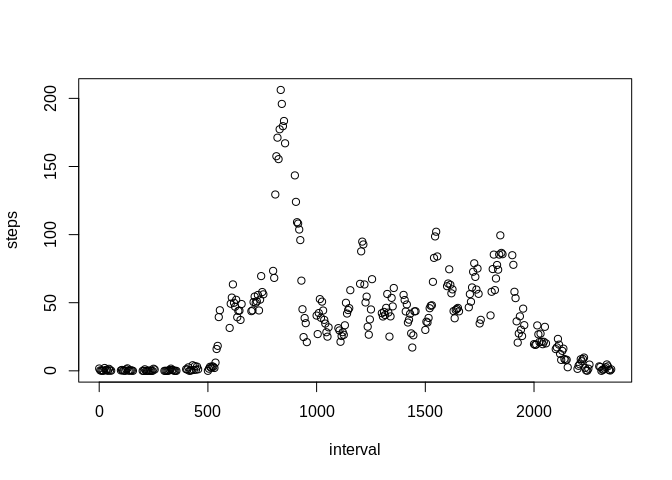
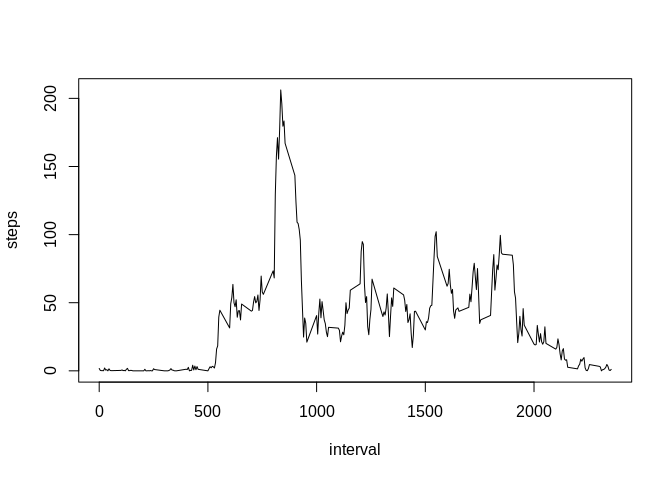
l type graphic

Changed region(s): [[0.4375, 0.4688, 0.9375, 0.7812], [0.125, 0.5625, 0.4688, 0.7812], [0.4062, 0.1875, 0.4688, 0.5312]]

diff --git a/PA1_template.html b/PA1_template.html
@@ -160,8 +160,8 @@ abline(v=mediansteps,col=&quot;green&quot;,lty=2)</code></pre>
 <p>First, we need to aggregate the number of steps taken by interval</p>
 <pre class="r"><code>stepsByInterval &lt;- aggregate(steps~interval,activitydata,mean,na.rm=TRUE)</code></pre>
 <p>Plot the results</p>
-<pre class="r"><code>plot(stepsByInterval)</code></pre>
[1 lines of base64/hex data omitted]
+<pre class="r"><code>plot(stepsByInterval,type=&quot;l&quot;)</code></pre>
[1 lines of base64/hex data omitted]
 <p>We see there is a high peak, we should find from which interval it comes from</p>
 <pre class="r"><code>stepsByInterval$interval[which.max(stepsByInterval$steps)]</code></pre>
 <pre><code>## [1] 835</code></pre>

diff --git a/PA1_template.md b/PA1_template.md
@@ -88,7 +88,7 @@ Plot the results
 
 
 ```r
-plot(stepsByInterval)
+plot(stepsByInterval,type="l")
 ```
 
 ![](PA1_template_files/figure-html/patternplot-1.png)<!-- -->
